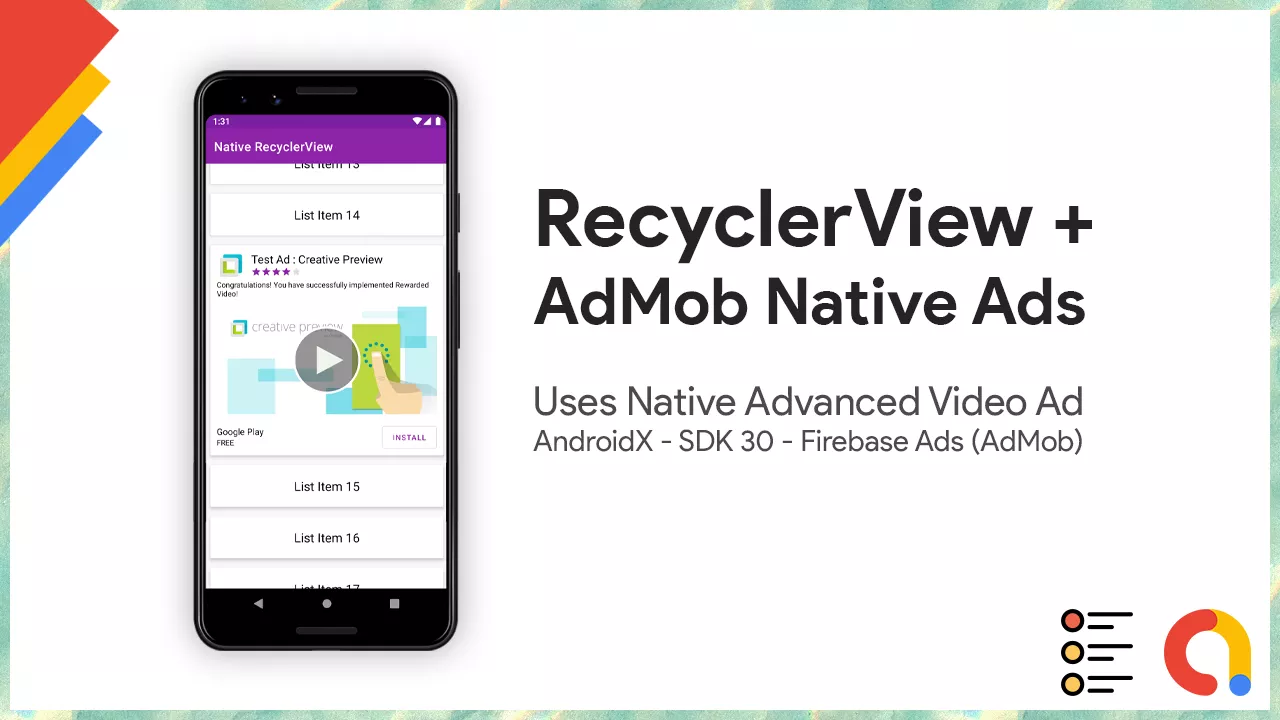
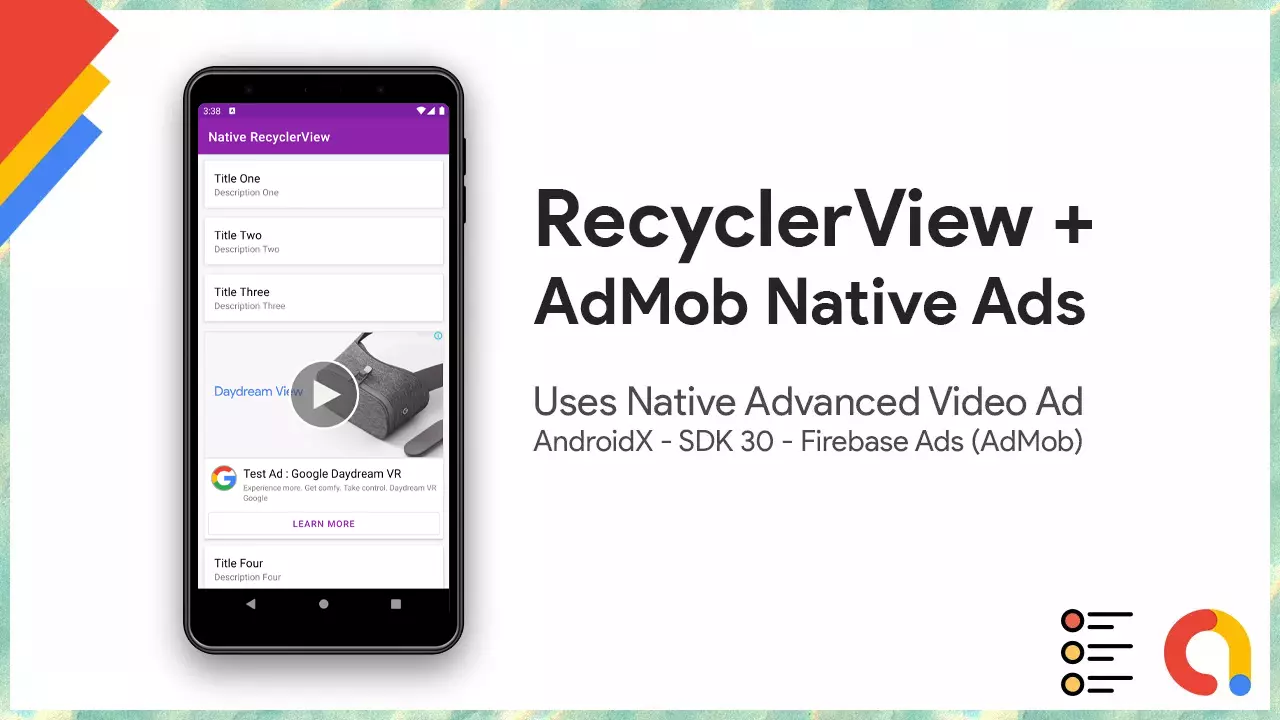
Improved the codes

Changed region(s): [[0.125, 0.0917, 0.375, 0.9778], [0.2188, 0.275, 0.2812, 0.3056]]

diff --git a/app/src/main/java/com/sabithpkcmnr/nativerecyclerview/ModelList.java b/app/src/main/java/com/sabithpkcmnr/nativerecyclerview/ModelList.java
@@ -1,0 +1,27 @@
+package com.sabithpkcmnr.nativerecyclerview;
+
+public class ModelList {
+
+    String title, description;
+
+    public ModelList(String title, String description) {
+        this.title = title;
+        this.description = description;
+    }
+
+    public String getTitle() {
+        return title;
+    }
+
+    public void setTitle(String title) {
+        this.title = title;
+    }
+
+    public String getDescription() {
+        return description;
+    }
+
+    public void setDescription(String description) {
+        this.description = description;
+    }
+}
